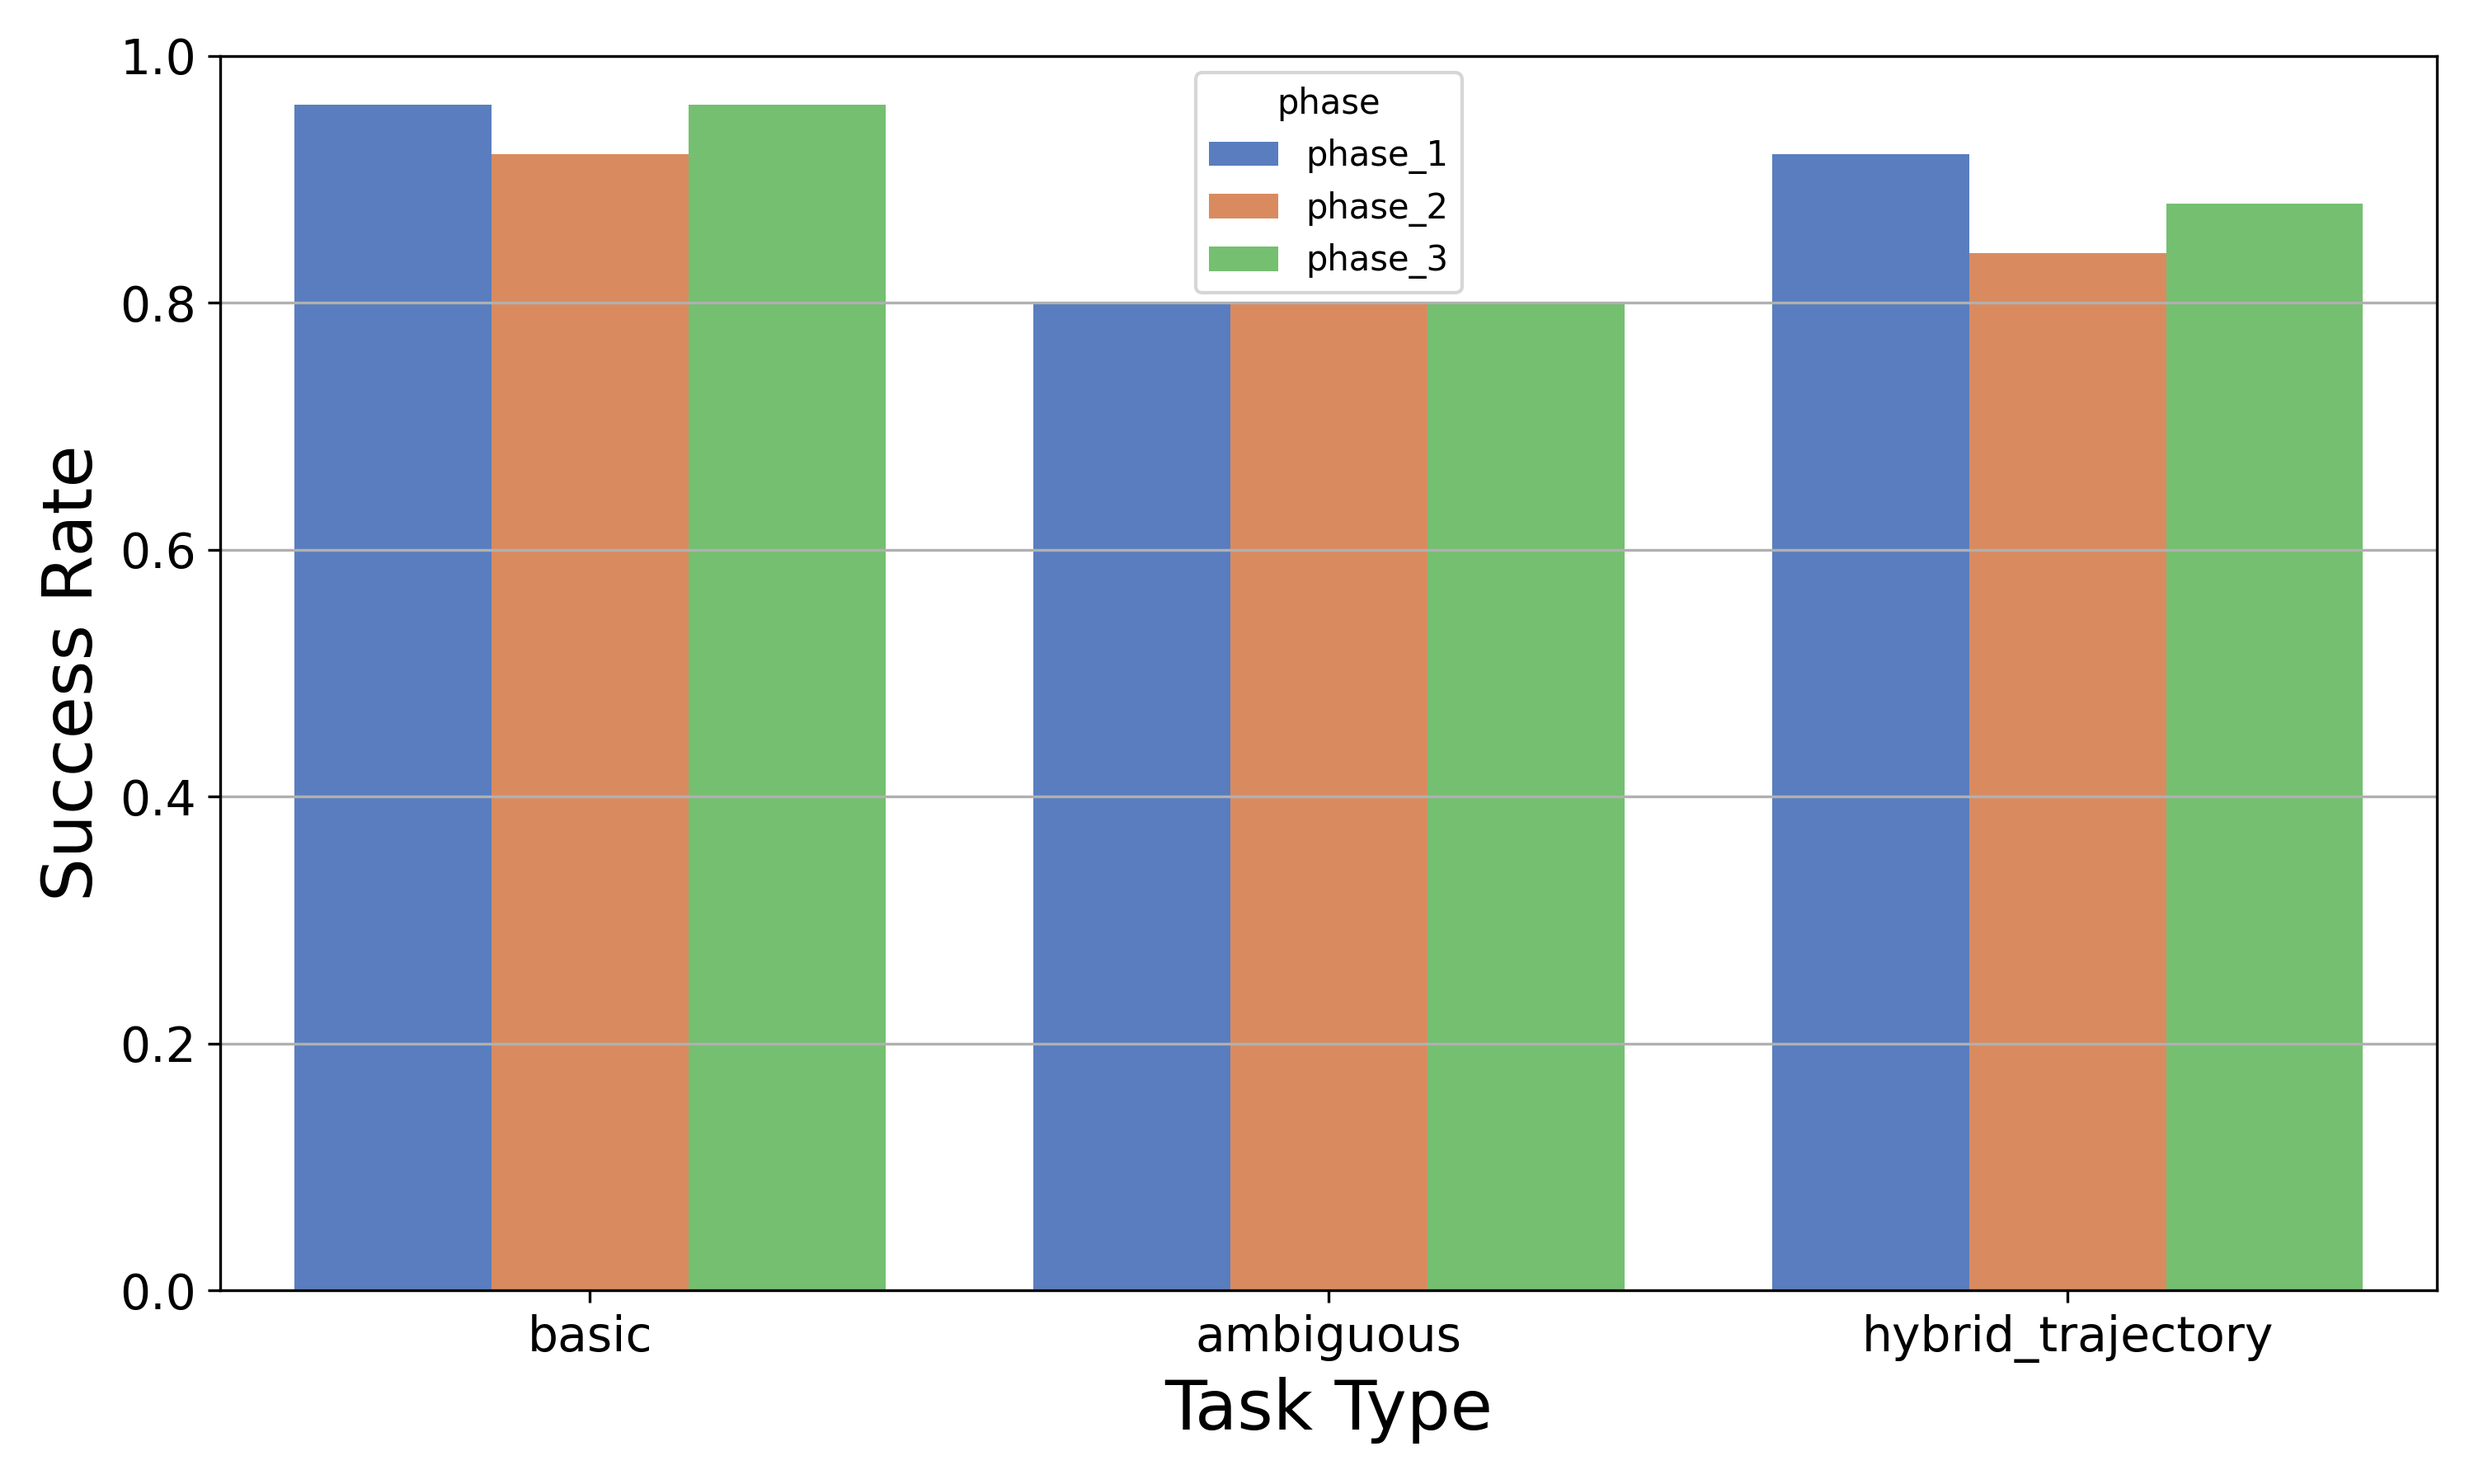
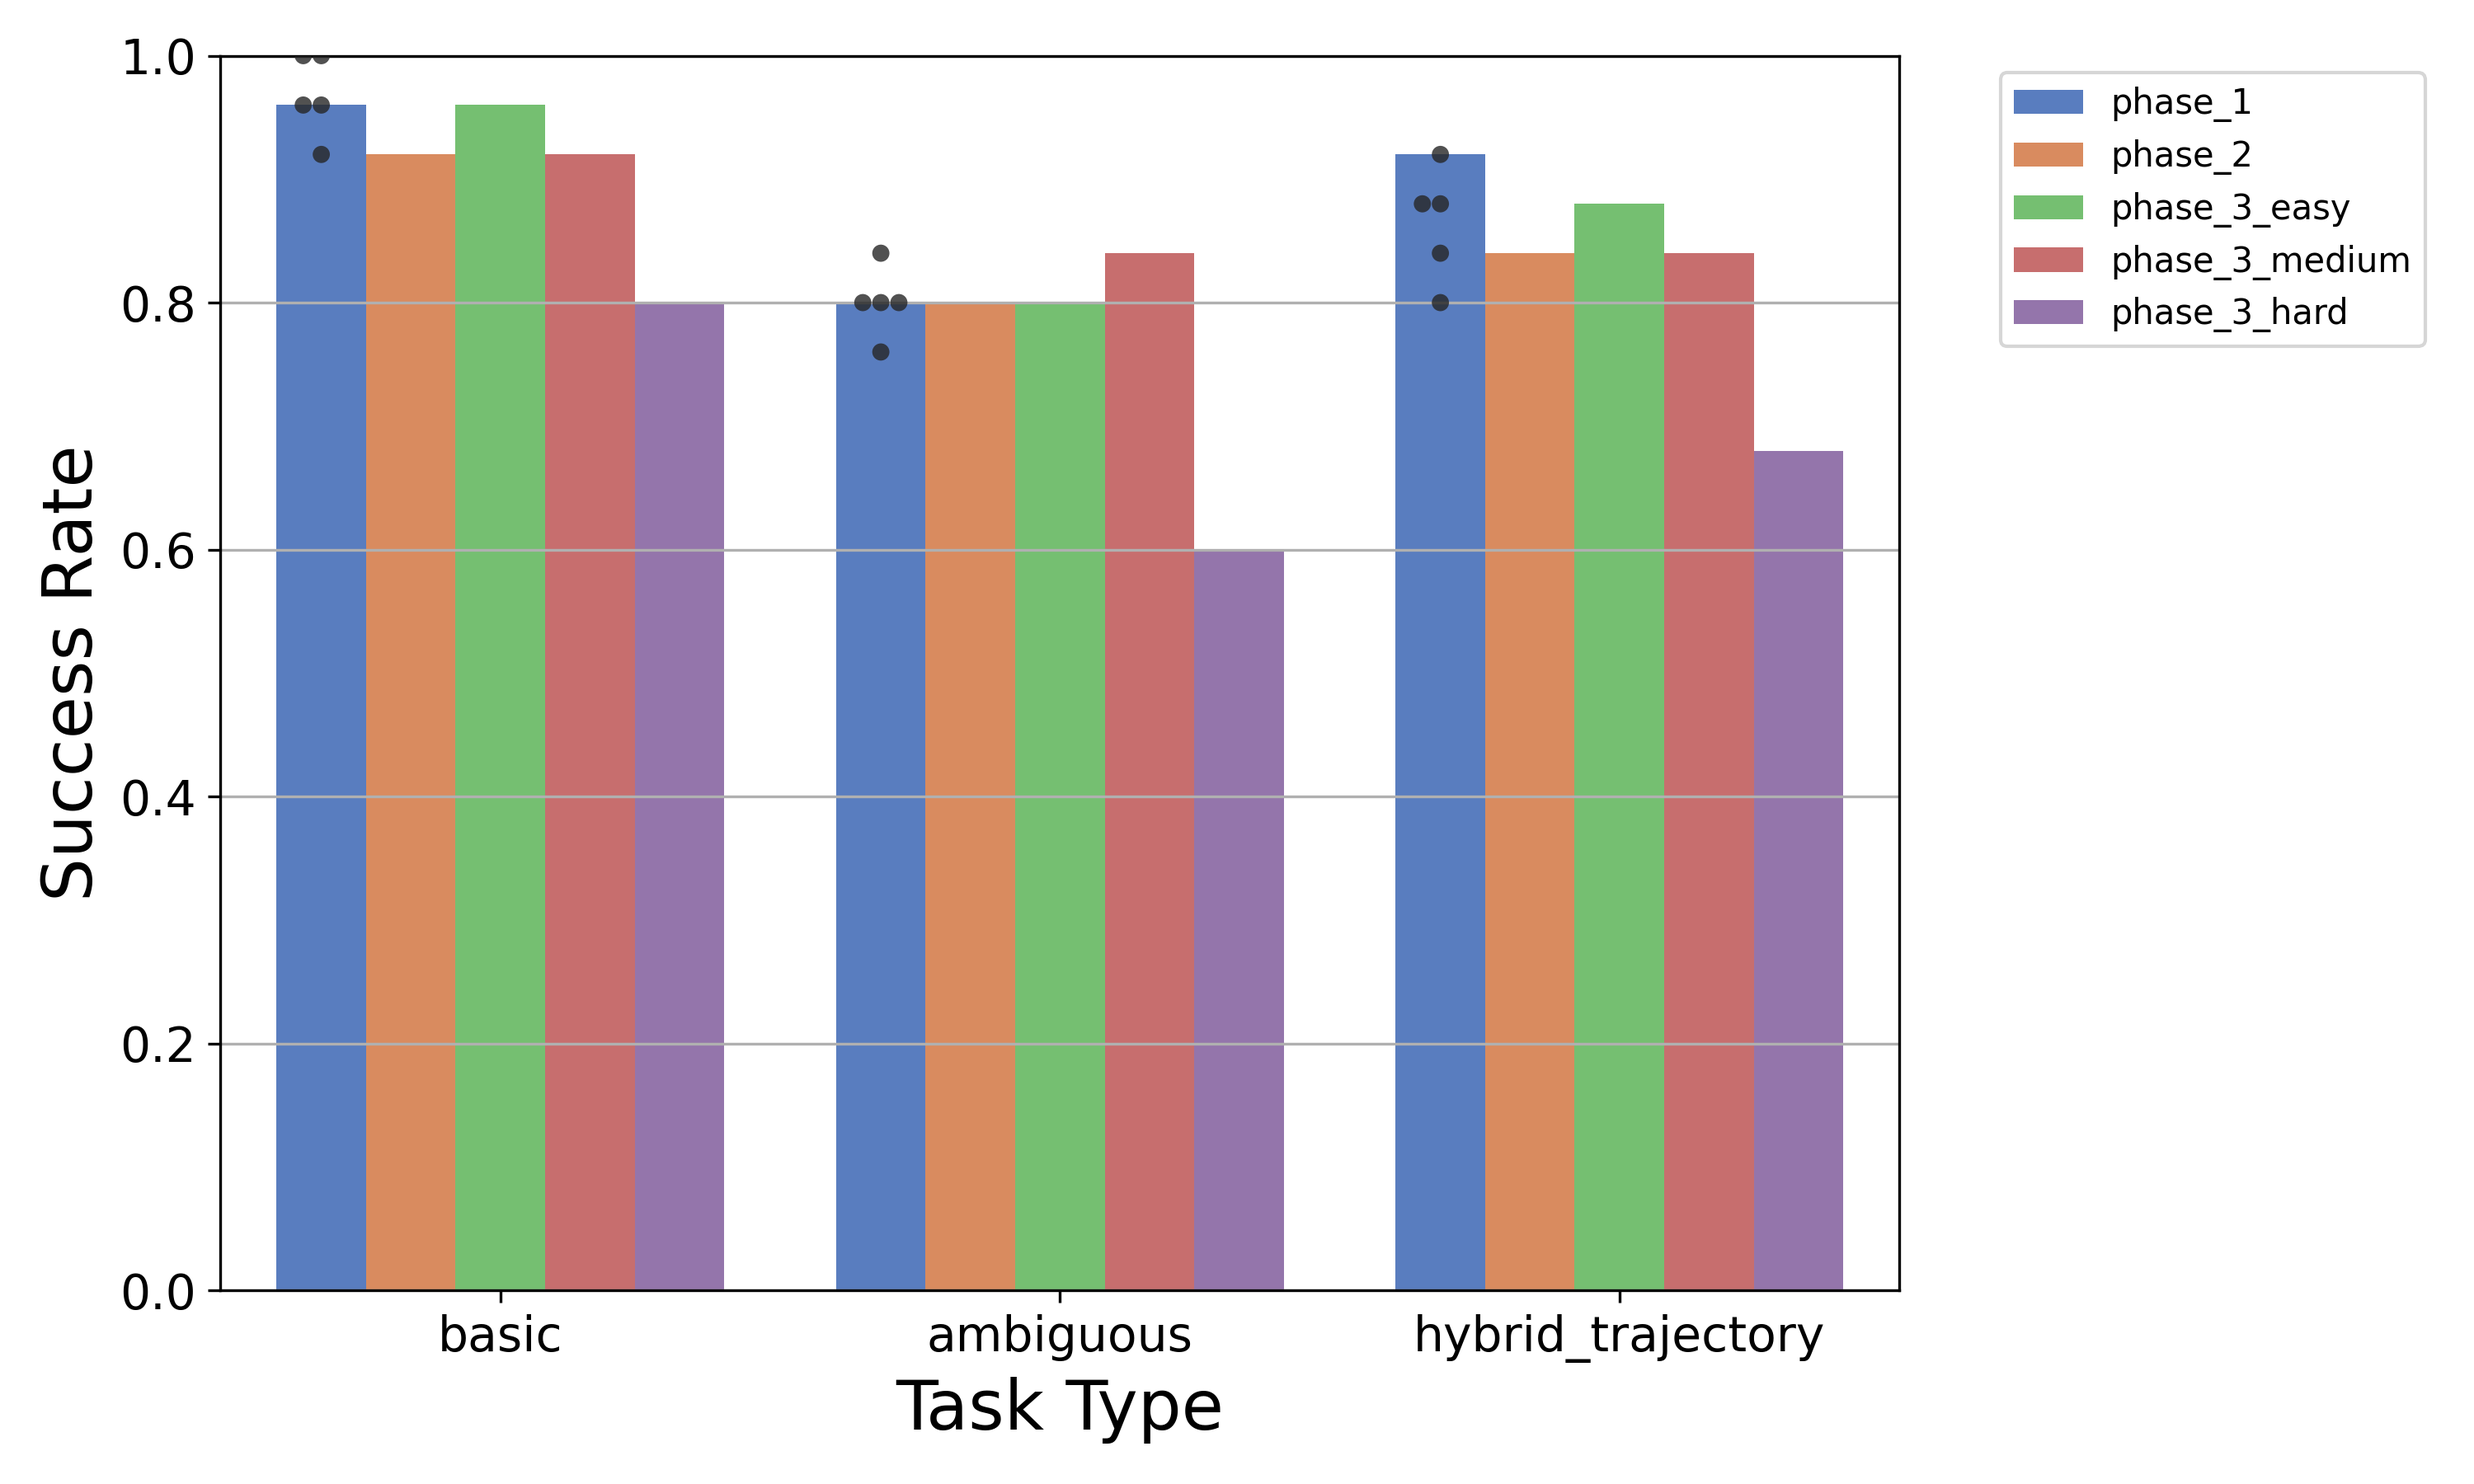
plots refine

diff --git a/myCode/my_planning_app/logs/success_rate_plot_phase_1_2_3.py b/myCode/my_planning_app/logs/success_rate_plot_phase_1_2_3.py
@@ -55,6 +55,75 @@ summary = summary.sort_values(by=["phase", "task_type"])
 # Print results
 print(summary[["phase", "task_type", "success", "failure", "total", "success_rate"]])
 
+# add synthetic multiple phase 1 experiments
+repeated_phase_1_basic = pd.DataFrame({
+    "phase": ["phase_1"] * 5,
+    "task_type": ["basic"] * 5,
+    "success": [24, 25, 24, 23, 25],
+    "failure": [2, 0, 1, 2, 0],
+    "total": [25, 25, 25, 25, 25],
+})
+repeated_phase_1_basic["success_rate"] = repeated_phase_1_basic["success"] / repeated_phase_1_basic["total"]
+
+repeated_phase_1_ambiguous = pd.DataFrame({
+    "phase": ["phase_1"] * 5,
+    "task_type": ["ambiguous"] * 5,
+    "success": [20, 21, 19, 20, 20],
+    "failure": [5, 4, 6, 5, 3],
+    "total": [25, 25, 25, 25, 25],
+})
+repeated_phase_1_ambiguous["success_rate"] = repeated_phase_1_ambiguous["success"] / repeated_phase_1_ambiguous["total"]
+
+repeated_phase_1_trajectory = pd.DataFrame({
+    "phase": ["phase_1"] * 5,
+    "task_type": ["hybrid_trajectory"] * 5,
+    "success": [23, 22, 21, 22, 20],
+    "failure": [2, 5, 4, 3, 6],
+    "total": [25] * 5,
+})
+repeated_phase_1_trajectory["success_rate"] = repeated_phase_1_trajectory["success"] / repeated_phase_1_trajectory["total"]
+
+# Combine all repeated phase 1 data
+repeated_phase_1 = pd.concat([
+    repeated_phase_1_basic,
+    repeated_phase_1_ambiguous,
+    repeated_phase_1_trajectory
+], ignore_index=True)
+
+# Reorder again
+summary["task_type"] = pd.Categorical(summary["task_type"], categories=desired_order, ordered=True)
+summary = summary.sort_values(by=["phase", "task_type"])
+# change the phase 3 into phase_3_easy
+summary["phase"] = summary["phase"].replace("phase_3", "phase_3_easy")
+
+# add phase_3_medium column
+# Correct way - single dictionary with lists
+phase_3_medium = pd.DataFrame({
+    "phase": ["phase_3_medium", "phase_3_medium", "phase_3_medium"],
+    "task_type": ["basic", "ambiguous", "hybrid_trajectory"],
+    "success": [23, 21, 21],
+    "failure": [2, 4, 4],
+    "total": [25, 25, 25]
+})
+
+phase_3_medium["success_rate"] = phase_3_medium["success"] / phase_3_medium["total"]
+
+phase_3_hard = pd.DataFrame({
+    "phase": ["phase_3_hard", "phase_3_hard", "phase_3_hard"],
+    "task_type": ["basic", "ambiguous", "hybrid_trajectory"],
+    "success": [20, 15, 17],
+    "failure": [5, 10, 8],
+    "total": [25, 25, 25]
+})
+
+phase_3_hard["success_rate"] = phase_3_hard["success"] / phase_3_hard["total"]
+
+# merge phase_3_medium and phase_3_hard into summary
+summary = pd.concat([summary, phase_3_medium, phase_3_hard], ignore_index=True)
+
+print("Modify summary DataFrame:")
+print(summary)
+
 # Create the barplot and keep the axis object
 plt.figure(figsize=(10, 6))
 ax = sns.barplot(
@@ -62,9 +131,24 @@ ax = sns.barplot(
     x="task_type",
     y="success_rate",
     hue="phase",
-    hue_order=["phase_1", "phase_2", "phase_3"],  # ensures phase_1 is left
+    hue_order=["phase_1", "phase_2", "phase_3_easy", "phase_3_medium", "phase_3_hard"],  # ensures phase_1 is left
     ci=None,
     palette="muted"
+)
+
+# Align stripplot properly
+sns.swarmplot(
+    data=repeated_phase_1,
+    x="task_type",
+    y="success_rate",
+    hue="phase",
+    hue_order=["phase_1", "phase_2", "phase_3_easy", "phase_3_medium", "phase_3_hard"],
+    dodge=True,
+    marker="o",
+    alpha=0.8,
+    color="black",
+    ax=ax,
+    legend=False
 )
 
 # plt.title("Success Rate by Task Type and Phase (with Phase 1 Uncertainty)")
@@ -74,6 +158,7 @@ plt.ylim(0, 1)
 plt.yticks(fontsize=14)
 plt.xticks(ticks=range(len(desired_order)), labels=desired_order, fontsize=14)
 plt.grid(True, axis='y')
+plt.legend(bbox_to_anchor=(1.05, 1), loc='upper left')  # Add this line
 plt.tight_layout()
 # Save plot
 plot_path = log_dir / "plots" / "phase_3" / "llm_success_rate_by_task_and_3_phases.png"

diff --git a/myCode/my_planning_app/logs/success_rate_plot.py b/myCode/my_planning_app/logs/success_rate_plot.py
@@ -5,7 +5,8 @@ import matplotlib.pyplot as plt
 
 def plot_success_rate(phase: str = "phase_1"):
     # Setup
-    log_dir = Path("/home/jingyang/robosuite/myCode/my_planning_app/logs")
+    HOME_DIR = Path.home()
+    log_dir = HOME_DIR / "robosuite/myCode/my_planning_app/logs"
     valid_prefixes = ("ambiguous", "basic", "trajectory")
     target_suffix = "evaluated"
     results = []
@@ -43,7 +44,7 @@ def plot_success_rate(phase: str = "phase_1"):
     raw_success = 6
     raw_total = 25
     raw_failure = raw_total - raw_success
-    summary.loc["trajectory\n- purely prompt based approach"] = {
+    summary.loc["trajectory\n- purely prompt\n based approach"] = {
         "failure": raw_failure,
         "success": raw_success,
         "total": raw_total,
@@ -51,18 +52,23 @@ def plot_success_rate(phase: str = "phase_1"):
     }
 
     # Reorder rows for plotting
-    desired_order = ["basic", "ambiguous", "trajectory\n- purely prompt based approach", "trajectory\n- hybrid approach"]
+    desired_order = ["basic", "ambiguous", "trajectory\n- purely prompt\n based approach", "trajectory\n- hybrid approach"]
     summary = summary.loc[desired_order]
 
     # Print results
     print(summary[["success", "failure", "total", "success_rate"]].sort_index())
 
     # Plot
-    summary["success_rate"].plot(kind="bar", color="skyblue", figsize=(8, 5))
-    plt.title("Success Rate by Task Type")
-    plt.ylabel("Success Rate")
+    ax = summary["success_rate"].plot(kind="bar", color="skyblue", figsize=(8, 5))
+    # plt.title("Success Rate by Task Type")
+    plt.ylabel("Success Rate", fontsize=16)
     plt.ylim(0, 1)
-    plt.xticks(rotation=0)
+    plt.xlabel("")
+    # Remove 'task_type' from x-axis labels by setting custom labels
+    current_labels = [label.get_text() for label in ax.get_xticklabels()]
+    new_labels = [label.replace('task_type\n', '') for label in current_labels]
+    ax.set_xticklabels(new_labels, rotation=0, fontsize=15)
+    
     plt.grid(True, axis='y')
     plt.tight_layout()
 

diff --git a/myCode/my_planning_app/logs/interpretation_time_plot.py b/myCode/my_planning_app/logs/interpretation_time_plot.py
@@ -7,7 +7,8 @@ import numpy as np
 np.random.seed(42)  # for reproducibility
 
 # Directory setup
-experiment_dir = Path("/home/jingyang/robosuite/myCode/my_planning_app/logs/")
+HOME_DIR = Path.home()
+experiment_dir = HOME_DIR / "robosuite/myCode/my_planning_app/logs/"
 valid_prefixes = ("ambiguous", "basic", "trajectory")
 data = []
 
@@ -60,7 +61,7 @@ np.random.shuffle(raw_llm_times)
 
 # Create new rows
 new_rows = pd.DataFrame({
-    "task_type": ["trajectory\n- purely prompt based approach"] * 25,
+    "task_type": ["trajectory\n- purely prompt\n based approach"] * 25,
     "interpretation_time": raw_llm_times
 })
 
@@ -77,11 +78,12 @@ plt.figure(figsize=(10, 6))
 sns.boxplot(data=df, 
             x="task_type", 
             y="interpretation_time",
-            order=["basic", "ambiguous", "trajectory\n- purely prompt based approach",  "trajectory\n- hybrid approach"],
+            order=["basic", "ambiguous", "trajectory\n- purely prompt\n based approach",  "trajectory\n- hybrid approach"],
             whis=1.5)
 # plt.title("LLM Interpretation Time by Task Type")
-plt.xlabel("Task Type")
-plt.ylabel("Interpretation Time (sec)")
+plt.xlabel("")
+plt.ylabel("Interpretation Time (sec)", fontsize=16)
+plt.xticks(fontsize=16)
 plt.grid(True)
 plt.tight_layout()
 
